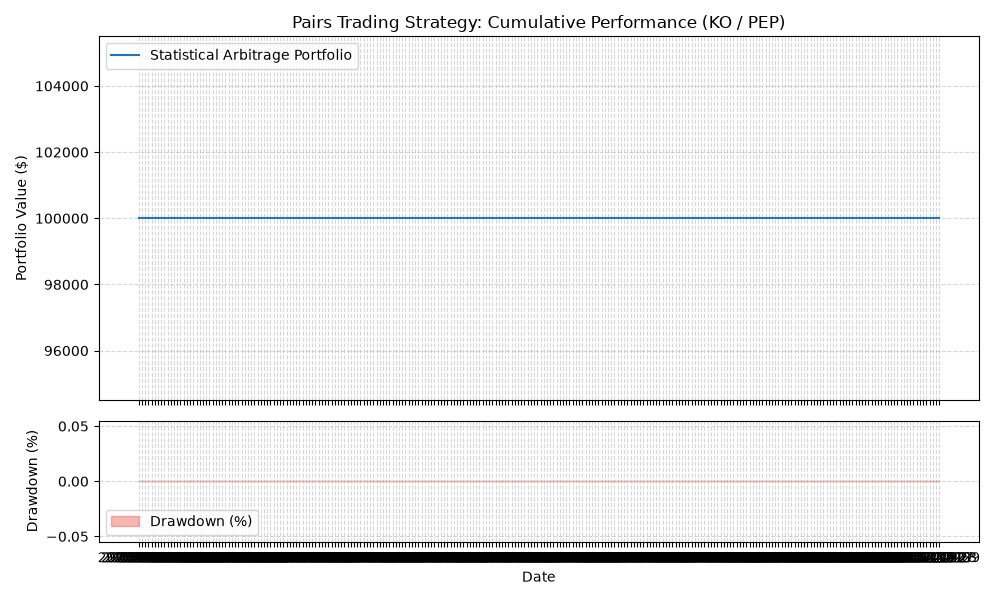
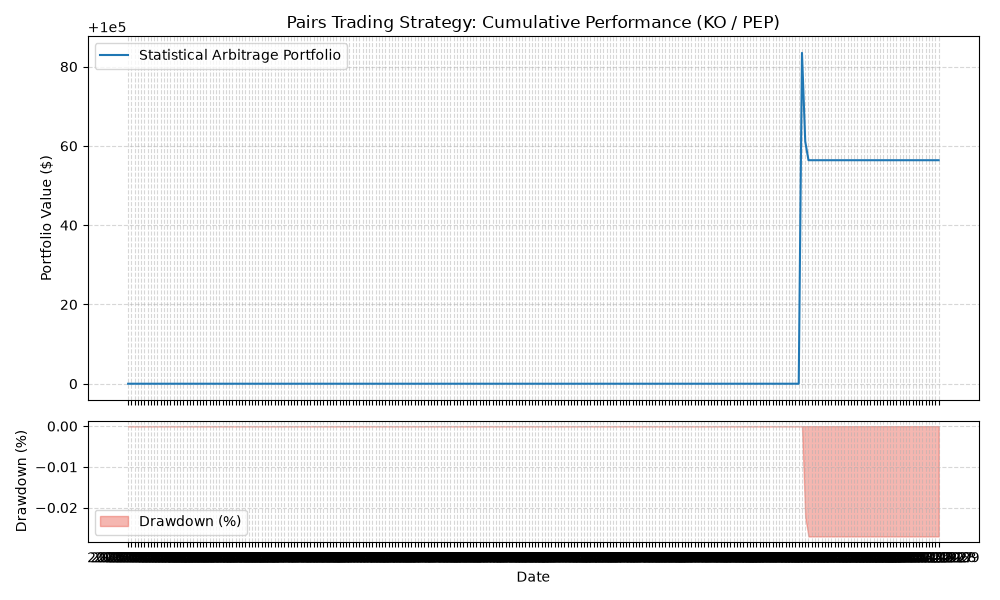
feat: complete Kalman Filter engine and test on cointegrated energy pair (XOM/CVX)

diff --git a/main.py b/main.py
@@ -7,15 +7,18 @@ from analytics import calculate_performance_metrics, plot_equity_curve
 
 def run_backtest():
     events = Queue()
-    symbol_list = ["KO", "PEP"]
+    
+    # Switch to the top cointegrated pair from screener: XOM / CVX
+    symbol_list = ["XOM", "CVX"]
+    pair = ('XOM', 'CVX')
     
     # Initialize Engine Components
     data_handler = HistoricDataHandler(events, symbol_list, "2023-01-01", "2024-01-01")
-    strategy = PairsStatArbStrategy(events, pair=('KO', 'PEP'))
+    strategy = PairsStatArbStrategy(events, pair=pair)
     portfolio = Portfolio(events, initial_capital=100000.0)
     execution = SimulatedExecutionHandler(events)
 
-    print("\n--- Running Dynamic OLS Hedge Ratio Stat-Arb Backtest ---\n")
+    print(f"\n--- Running Kalman Filter Stat-Arb Backtest on {pair[0]}/{pair[1]} ---\n")
 
     while data_handler.stream_next_bar():
         while not events.empty():
@@ -41,6 +44,7 @@ def run_backtest():
     plot_equity_curve(equity_df)
 
     print("\n================ STATISTICAL PERFORMANCE METRICS ================")
+    print(f"Target Pair        : {pair[0]} / {pair[1]}")
     print(f"Starting Capital   : ${portfolio.initial_capital:,.2f}")
     print(f"Ending Equity      : ${equity_df['equity'].iloc[-1]:,.2f}")
     print(f"Total Return       : {metrics['Total Return (%)']:.2f}%")

diff --git a/portfolio.py b/portfolio.py
@@ -13,8 +13,9 @@ class Portfolio:
         self.allocation_per_trade = allocation_per_trade
         self.short_borrow_rate = short_borrow_rate  # Annualized borrow rate (1.5%)
         
-        self.positions = {'KO': 0, 'PEP': 0}
-        self.latest_prices = {'KO': 0.0, 'PEP': 0.0}
+        # Initialize positions dynamically
+        self.positions = {}
+        self.latest_prices = {}
         
         # Friction tracking
         self.total_commissions = 0.0
@@ -32,6 +33,8 @@ class Portfolio:
         """Updates internal price cache, deducts daily borrow fees, and logs daily equity."""
         for symbol in market_event.data:
             self.latest_prices[symbol] = market_event.data[symbol]['close']
+            if symbol not in self.positions:
+                self.positions[symbol] = 0
 
         # Deduct daily short borrow cost on any short positions held overnight
         daily_borrow_cost = 0.0
